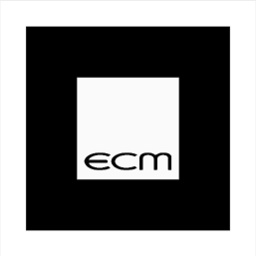
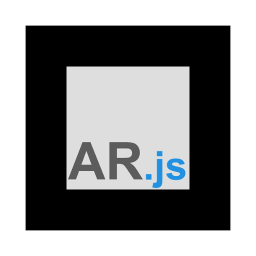
switch to new marker, add group to hand-over parameters

Changed region(s): [[0.25, 0.25, 0.75, 0.75], [0.0938, 0.0938, 0.9062, 0.9062]]

diff --git a/src/App.js b/src/App.js
@@ -86,6 +86,7 @@ class App extends Component {
 
     endExperiment() {
         let parameters = {
+            group: this.state.group,
             arToggles: this.state.arToggles,
             flskChanges: this.state.flskChanges,
             productImageChanges: this.state.productImageChanges,
